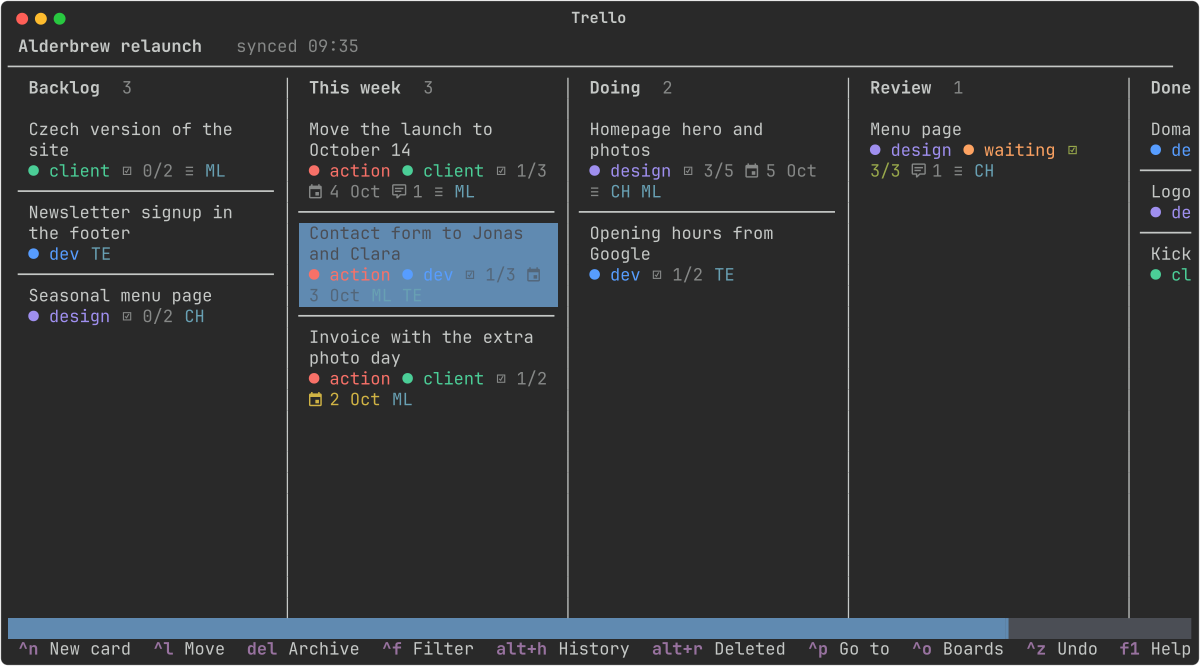
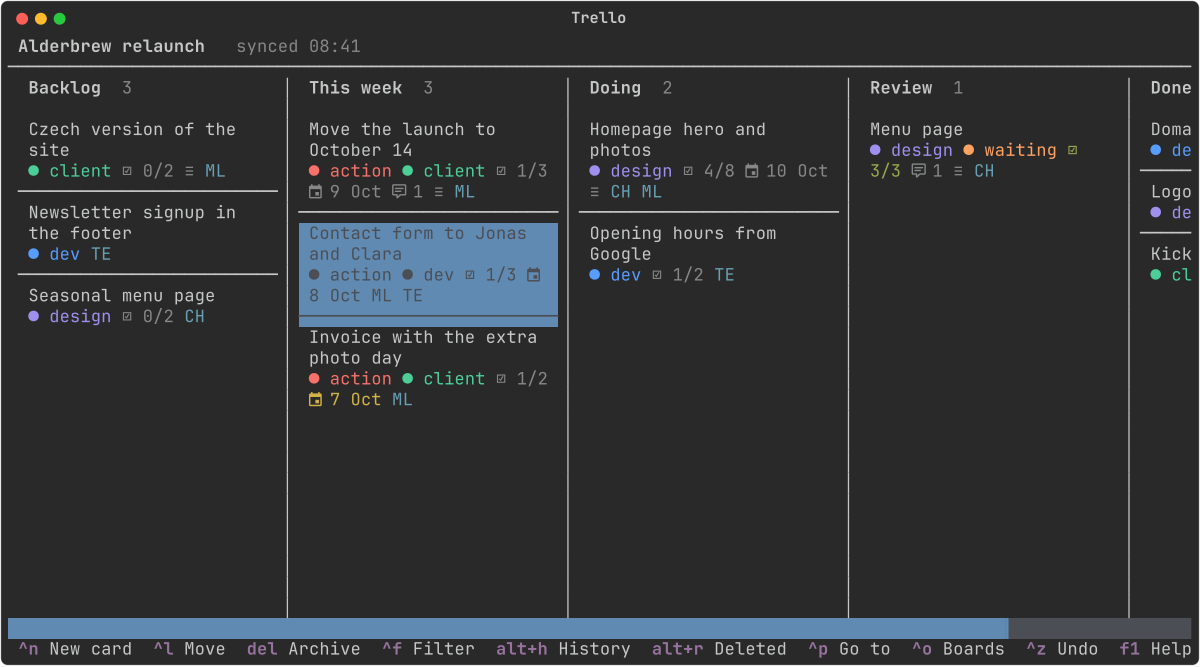
Show the demo tour in the README
The recorder also renders a GIF from the MP4; demo.gif is the tour on the
made-up boards.

diff --git a/demo/record.py b/demo/record.py
@@ -1,10 +1,12 @@
-"""Drive the app headless through a tour and render it to an MP4.
+"""Drive the app headless through a tour and render it to an MP4 (and a GIF for the README).
 
 Every key goes through the real bindings (pilot.press); each step saves an SVG
 screenshot with how long it stays on screen and a caption. rsvg-convert, ImageMagick
 and ffmpeg turn those into 1920x1080 video.
 
     trello-demo record [BOARD] [CARD]     board and card by name (defaults below)
+    trello-demo record --sample "Alderbrew relaunch" "Homepage hero and photos"
+                                          the README's demo.gif, from the made-up boards
 """
 
 import asyncio
@@ -307,5 +309,10 @@ def main(cfg, make_app, argv):
     out = OUT / "trello-demo.mp4"
     render(film.frames, out, work)
     shutil.rmtree(work)
+    gif = out.with_suffix(".gif")              # the README's: held frames dropped, 128 colours
+    subprocess.run(["ffmpeg", "-y", "-loglevel", "error", "-i", out, "-vf",
+                    "fps=10,scale=1100:-1:flags=lanczos,mpdecimate,split[a][b];"
+                    "[a]palettegen=max_colors=128:stats_mode=diff[p];[b][p]paletteuse=dither=none",
+                    "-fps_mode", "vfr", gif], check=True)
     total = sum(s for _, s, _ in film.frames)
-    print(f"{out}  {len(film.frames)} frames, {total:.1f}s")
+    print(f"{out}  {len(film.frames)} frames, {total:.1f}s\n{gif}")

diff --git a/demo/demo.py b/demo/demo.py
@@ -1,7 +1,7 @@
 """Run the Trello client on a copy of your cached boards, offline.
 
     demo/trello-demo            the client, in this terminal
-    demo/trello-demo record     render demo/out/trello-demo.mp4 (headless)
+    demo/trello-demo record     render demo/out/trello-demo.mp4 and .gif (headless)
     demo/trello-demo preview    render preview.png from the made-up boards
 
     --sample                    made-up boards (demo/sample.py) instead of your own

diff --git a/README.md b/README.md
@@ -4,7 +4,10 @@ A fast terminal Trello client for [Omarchy](https://omarchy.org). Arrow keys and
 (no vim), `Ctrl+P` to jump to any card on any board, and a **history that remembers everything**:
 delete a checklist by accident in Trello and its items are gone for good. Here you get them back.
 
-![Trello in the terminal: a board as columns of cards](preview.png)
+![A tour of the client: filter, jump to a card, tick, delete a checklist and get it back](demo.gif)
+
+Try it yourself without touching Trello: `demo/trello-demo --sample` runs the client offline on
+the same made-up boards (or `demo/trello-demo` on a copy of your own cached ones).
 
 ## Why it's fast
 
